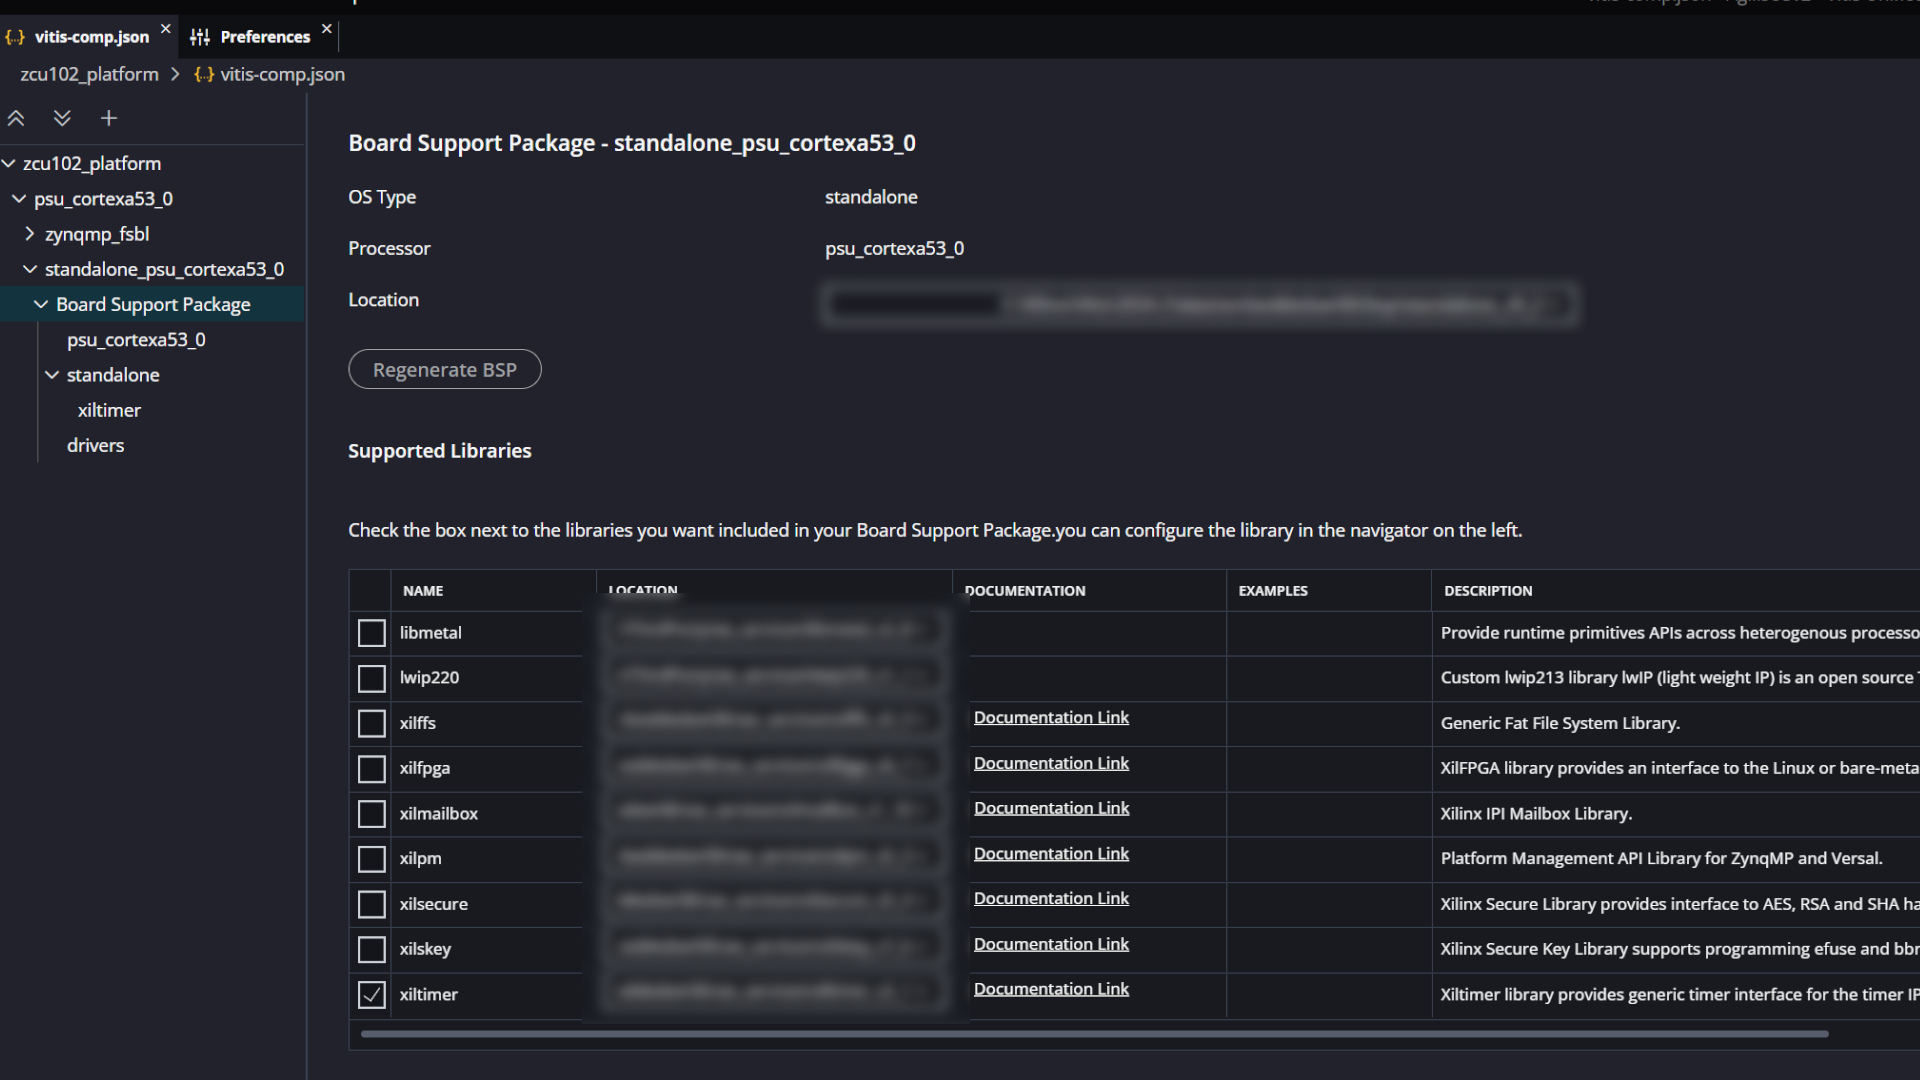
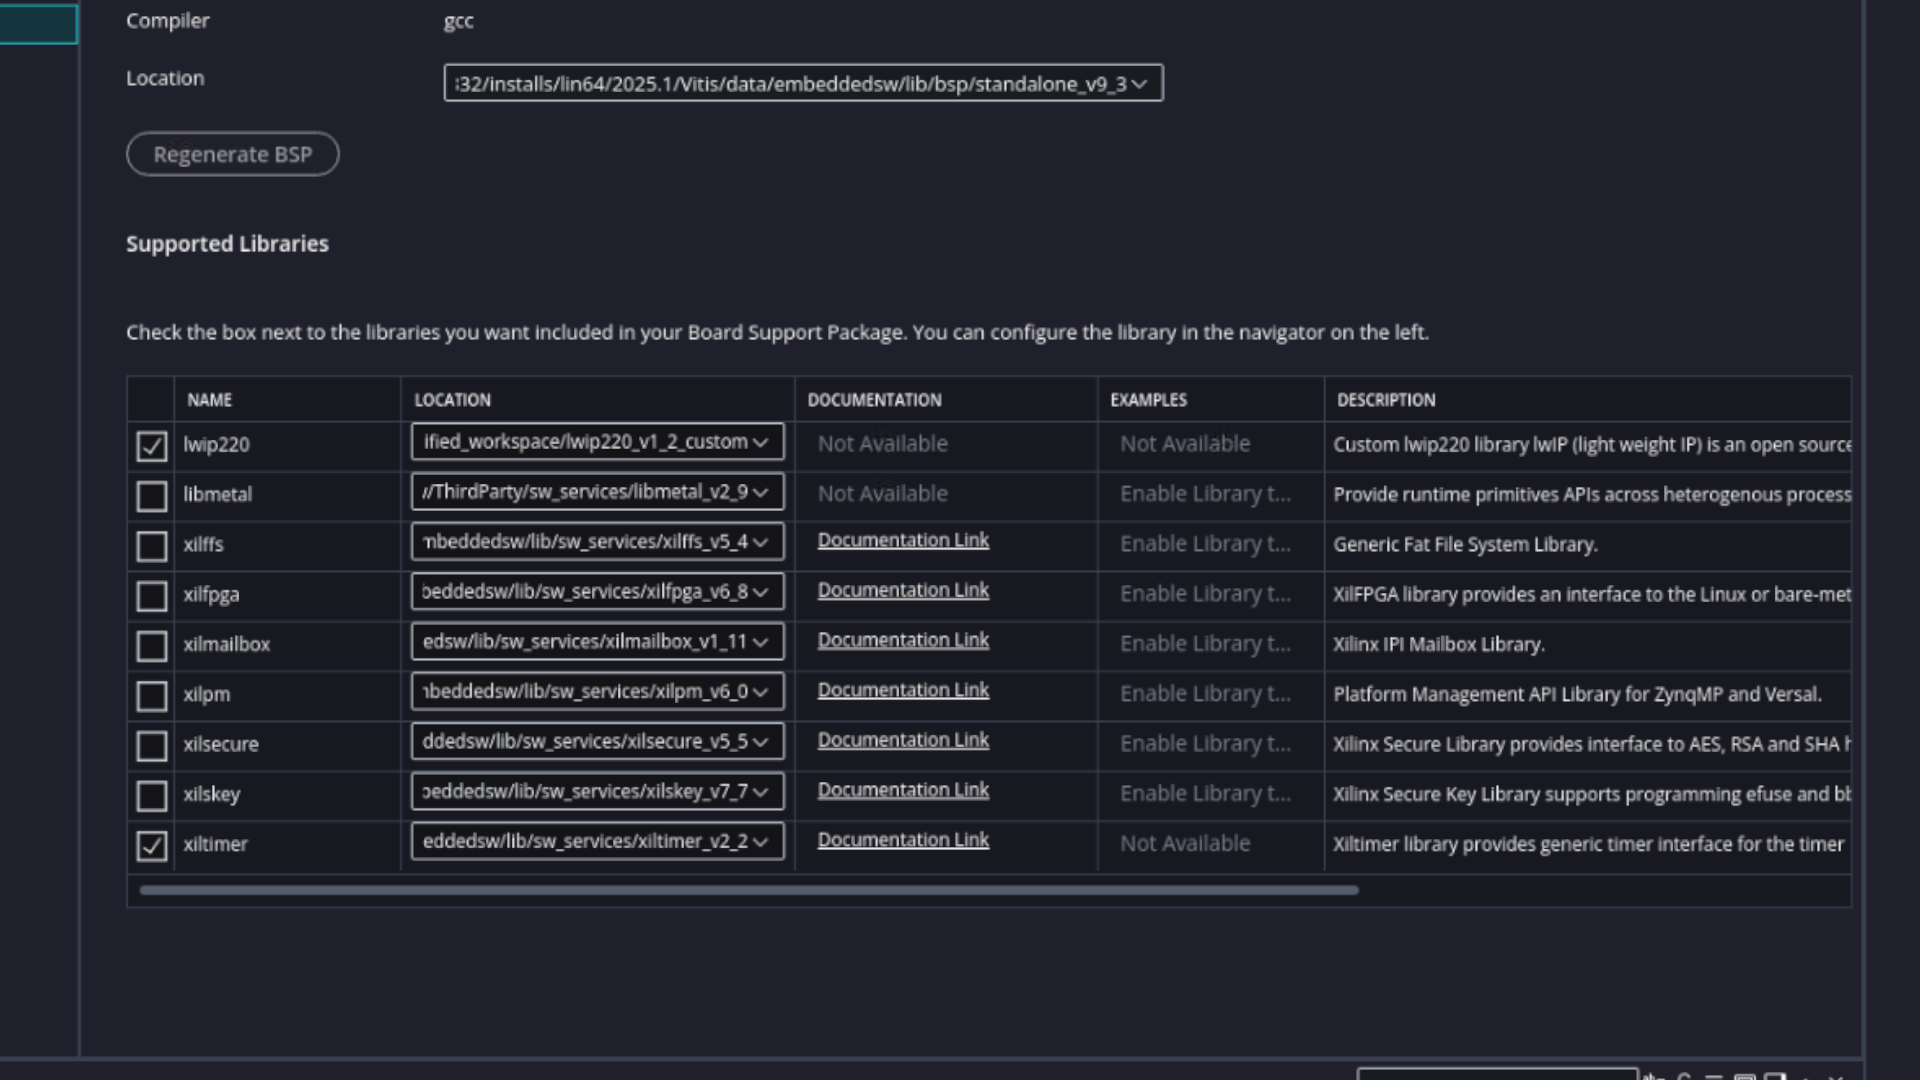
Embedded/F/03-migration: updated for 2025.1

Changed region(s): [[0.0, 0.0, 1.0, 1.0]]

diff --git a/Embedded_Software/Feature_Tutorials/03-vitis_classic_to_unified_migration/README.md b/Embedded_Software/Feature_Tutorials/03-vitis_classic_to_unified_migration/README.md
@@ -5,7 +5,7 @@
  </tr>
 </table>
 
-***Version: Vitis 2024.2***
+***Version: Vitis 2025.1***
 
 >**Note**: The content of this tutorial is also available as an on-demand video, featuring a demo walkthrough from the ["Advancing Embedded Development: Migrating to AMD Vitis™ Unified IDE and Exploring Backend Innovations"](https://webinar.amd.com/Advancing-Embedded-Development-Migrating-to-AMD-Vitis-tm-Unified-IDE-and-Exploring-Backend-Innovations/en) webinar.
 
@@ -48,7 +48,7 @@ The CMake framework is now used in all baremetal drivers, libraries and applicat
 
 To repeat, a BSP (or Domain) is a collection of drivers, libraries and processor specific configuration that users can use to base their application project upon. In Vitis Classic, the non-default BSP settings where contained in a MSS (Microprocessor Software Specification) file such as the OS settings, drivers, and (or) libraries. As mentioned above, the non-default settings are contained in the MSS file. The metadata was compiled from a few different source files. For example, the OS settings where populated from the standalone bsp MDD file, and any non-default settings (ie user settings in GUI) where contained in the MSS under the OS section. The same flow was used in the driver, where each driver had its parameters maintained in the MDD file, and if user changed these from default it would be stored in the MSS file. Same for the Libraries. In Vitis Unified IDE, the MSS/MDD/MLD are no longer used. Instead of the MSS the bsp.yaml created by the Lopper framework using the SDT will contain this information. The bsp.yaml will contain the os_info, os_config, proc, proc_config, drv_info, library_info, library_config. The metadata here is used to populate BSP GUI in Vitis Unified GUI. Any changes made to the bsp.yaml will be reflected in the GUI.
 
-In Vitis Unified the parameters are all CMake driven. So, intead of the MSS/MDD/MLD each standalone bsp, driver or library will have a CMake file with cache variables and their options. Vitis Unified IDE is using those CMake cache data to populate the bsp.yaml. The bsp.yaml will be dynamically generated every time the Domain is built. Any modifications to the bsp.yaml will be overwritten.
+In Vitis Unified the parameters are all CMake driven. So, instead of the MSS/MDD/MLD each standalone bsp, driver or library will have a CMake file with cache variables and their options. Vitis Unified IDE is using those CMake cache data to populate the bsp.yaml. The bsp.yaml will be dynamically generated every time the Domain is built. Any modifications to the bsp.yaml will be overwritten.
 
 ## How is Hardware Metadata passed to baremetal driver
 
@@ -285,7 +285,7 @@ configure_file(${CMAKE_CURRENT_SOURCE_DIR}/contrib/ports/xilinx/include/lwipopts
 
 Another popular question is how to make changes to a Library delivered in Vitis Unified IDE. If users make changes to the local sources in the library in the BSP, then these will be lost upon a regeneration of the BSP. To maintain the modifications in the Library, then user will need to make a local copy of the library in the Vitis install to a local drive and point to this in the <i>Vitis -> Embedded SW Repositories..</i>.
 
-In the example below, I added a local copy of the LwIP library to the folder structure repo/ThirdParty/sw_services/lwip220_v1_1, and added this to the Local Repositories in Embedded SW repositories
+In the example below, I added a local copy of the LwIP library to the folder structure repo/ThirdParty/sw_services/lwip220_v1_2, and added this to the Local Repositories in Embedded SW repositories
 
 ![](./images/embedded_sw_repo.PNG)
 
@@ -312,7 +312,7 @@ If users want to add custom options, then create the cmake CACHE variable first 
 
 ```
 set(lwip220_enable_dns 0 CACHE STRING "Enable DNS")
-set_property(CACHE lwip213_enable_dns PROPERTY STRINGS 0 1)
+set_property(CACHE lwip220_enable_dns PROPERTY STRINGS 0 1)
 ...
 if (${lwip220_enable_dns})
     set(ENABLE_DNS 1)
@@ -337,7 +337,44 @@ If i set this from 0 to 1 then this will now be added in the lwipopts.h file
 
 ## Vitis Classic workspace to Unified workspace Migration Demo
 
-There is a script supplied in this tutorial that will build a Vitis Classic Workspace. Follow the steps below to generate this workspace
+The Vitis Classic IDE is now deprecated from the 2025.1 release and therefore the Classic IDE to Vitis Unified IDE migration utility is no longer available as of 2025.1. You can either use the migration utility from a previous release (2024.2, 2024.1 or 2023.2) and then upgrade the project, or perform the migration manually. Follow the steps below for manual migration.
+
+### Manual Migration
+
+1. Update the XSA file using the latest Vivado tools
+2. Re-create the platform based on the updated XSA file
+3. Re-create the application based on the updated platform
+4. Import your application source code
+5. Build the application and fix any issues encountered
+
+#### Updating the XSA
+
+Below I have a trivial Block Design for the Zynq Ultrascale+ MPSoC which was created using Vivado 2023.2 tools. I have exported the hardware and used the .xsa file within Vitis Classic to create a platform and build applications on top of it. However, now I am in this situation were I want to migrate to the latest version of Vitis Unified. Here we will look at how we can upgrade our vivado deisgn in the latest vivado tools before exporting it to vitis. 
+
+![](./images/2023.2_block_design.PNG)
+
+1. Load Vivado 2025.1 tools
+2. Select 'Open Project' and choose the 2023.2 project to be migrated
+
+![](./images/open_project.PNG)
+
+3. When you select your older project you will receive the below pop up message asking you if you would like to automaitcally upgrade or open the project in read only mode. Select 'Automatically Upgrade to the current version'.
+
+![](./images/upgrade_pop_up_message.PNG)
+
+4. Next after the project has loaded in vivado you may see the below warning message explaining that some of the IP used in your project have been upgraded.
+
+![](./images/upgrade_warning_message.PNG)
+
+To upgrade the IP select 'Report IP Status' and then scroll to the bottom of the screen and select the 'IP Status' tab which will display all avaliable IP in your design. Then Select all of the IP's that require upgrades and click 'Upgrade Selected'.
+
+![](./images/upgradable_ip.PNG)
+
+5. Export the hardware (XSA) and use it to recreate your platform in Vitis Unified 2025.1
+
+### Vitis Classic to Unified Migration Utility
+
+However if your project is from a previous release (2024.2, 2024.1 or 2023.2) you can follow the tutorial on this page for using the migration utility. There is a script supplied in this tutorial that will build a Vitis Classic Workspace. Follow the steps below to generate this workspace
 
 Launch XSCT, and use the command below
 
@@ -377,7 +414,7 @@ This will generate a **migration.py** python script that can be opened in the Vi
 
 ```
 cd path/to/unified_workspace
-vitis -s migration.py
+vitis -s migrate.py
 ```
 
 Once the script is complete, launch the Vitis Unified IDE and set the workspace to the newly generate **unified_workspace**.
